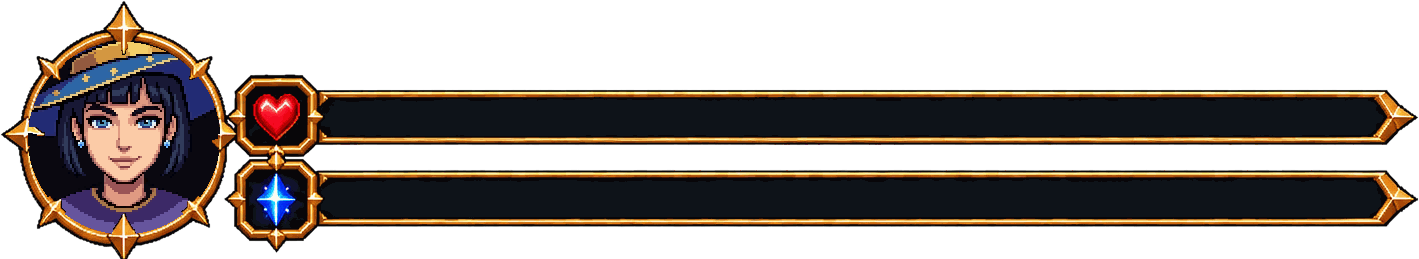
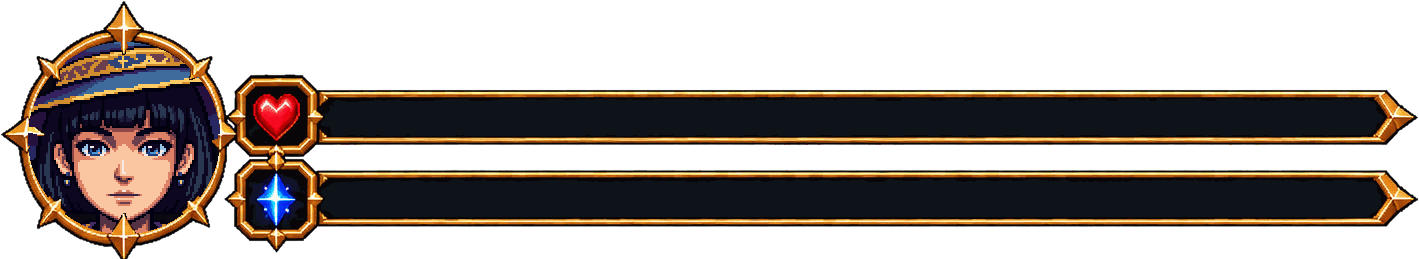
feat(arte): retrato da maga refeito no mesmo nivel dos outros herois (v355)
Claude-Session: https://claude.ai/code/session_01CFCxNXfixuMsFnbxiF9Xf2

Changed region(s): [[0.0, 0.1544, 0.155, 0.8958]]

diff --git a/sw.js b/sw.js
@@ -1,6 +1,6 @@
-const CACHE='bd1-rpg-v354';
+const CACHE='bd1-rpg-v355';
 const ASSETS=['./js/online/match.js','./relatorio.html','./css/relatorio.css','./js/pages/relatorio.js','./js/online/online.js','./saves.html','./css/saves.css','./js/pages/savesui.js','./conta.html','./css/conta.css','./js/pages/conta.js','./assets/salas/orb.png','./salas.html','./css/salas.css','./js/pages/salas.js','./js/core/gate.js','./js/online/net.js','./js/vendor/supabase.js','./assets/salas/ic_lock.png','./assets/salas/ic_unlock.png','./assets/salas/ic_people.png','./assets/salas/ic_plus.png','./assets/salas/ic_key.png','./assets/salas/ic_mage.png','./assets/salas/ic_guerreiro.png','./assets/salas/ic_tank.png','./assets/salas/ic_cleriga.png','./js/game/stage.js','./js/game/hrimgar.js','./js/game/ambient_ice.js','./assets/backgrounds/game_nohud_ice.png','./assets/backgrounds/game_clean_ice.png','./assets/bosses/hrimgar/a1.png','./assets/bosses/hrimgar/a2.png','./assets/bosses/hrimgar/a3.png','./assets/bosses/hrimgar/a4.png','./assets/bosses/hrimgar/a5.png','./assets/bosses/hrimgar/a6.png','./assets/bosses/hrimgar/fx.json','./assets/bosses/hrimgar/fx_blood.png','./assets/bosses/hrimgar/fx_flake.png','./assets/bosses/hrimgar/fx_frost.png','./assets/bosses/hrimgar/fx_pillar.png','./assets/bosses/hrimgar/fx_pillar2.png','./assets/bosses/hrimgar/fx_pillarb.png','./assets/bosses/hrimgar/fx_seal.png','./assets/bosses/hrimgar/fx_sh1.png','./assets/bosses/hrimgar/fx_sh2.png','./assets/bosses/hrimgar/fx_sh3.png','./assets/bosses/hrimgar/fx_shards.png','./assets/bosses/hrimgar/fx_shards2.png','./assets/bosses/hrimgar/fx_sl1.png','./assets/bosses/hrimgar/fx_sl2.png','./assets/bosses/hrimgar/fx_sl3.png','./assets/bosses/hrimgar/fx_sl4.png','./assets/bosses/hrimgar/fx_slline.png','./assets/bosses/hrimgar/fx_slx.png','./assets/bosses/hrimgar/meta.json','./assets/bosses/hrimgar/n1.png','./assets/bosses/hrimgar/n2.png','./assets/bosses/hrimgar/n3.png','./assets/bosses/hrimgar/n4.png','./assets/bosses/hrimgar/n5.png','./assets/bosses/hrimgar/n6.png','./assets/bosses/hrimgar/p1.png','./assets/bosses/hrimgar/p2.png','./assets/bosses/hrimgar/p3.png','./assets/bosses/hrimgar/p4.png','./assets/bosses/hrimgar/p5.png','./assets/bosses/hrimgar/p6.png','./assets/bosses/hrimgar/s1.png','./assets/bosses/hrimgar/v1.png','./assets/bosses/hrimgar/v2.png','./assets/bosses/hrimgar/v3.png','./assets/bosses/hrimgar/v4.png','./assets/bosses/hrimgar/v5.png','./assets/bosses/hrimgar/v6.png','./assets/bosses/hrimgar/w1.png','./assets/bosses/hrimgar/w2.png','./assets/bosses/hrimgar/w3.png','./assets/bosses/hrimgar/w4.png','./assets/bosses/hrimgar/w5.png','./assets/bosses/hrimgar/w6.png','./assets/bosses/hrimgar/x1.png','./assets/bosses/hrimgar/x2.png','./assets/bosses/hrimgar/x3.png','./assets/bosses/hrimgar/x4.png','./assets/bosses/hrimgar/x5.png','./assets/bosses/hrimgar/x6.png','./','./index.html','./game.html','./js/pages/lobby.js','./assets/ui/inv_panel.png','./assets/ui/shop_panel.png','./assets/ui/merchant_portrait.png','./assets/ui/shop_sign.png','./assets/ui/btn_bag.png','./assets/ui/btn_shop.png','./assets/ui/tip_parchment.png','./assets/class-select/skm_mage.png','./assets/class-select/skm_guerreiro.png','./assets/class-select/skm_tank.png','./assets/class-select/skm_cleriga.png','./assets/class-select/skm_mage_5.png','./assets/class-select/skm_guerreiro_5.png','./assets/class-select/skm_tank_5.png','./assets/class-select/skm_cleriga_5.png','./assets/skills/air.png','./assets/skills/back.png','./assets/skills/cleriga_atk.png','./assets/skills/cleriga_def.png','./assets/skills/cleriga_holy_atk.png','./assets/skills/cleriga_holy_def.png','./assets/skills/cleriga_ult.png','./assets/skills/dodge.png','./assets/skills/earth.png','./assets/skills/fire.png','./assets/skills/guerreiro_atk.png','./assets/skills/guerreiro_def.png','./assets/skills/guerreiro_heavy.png','./assets/skills/guerreiro_pass.png','./assets/skills/guerreiro_ult.png','./assets/skills/mage_elem_atk.png','./assets/skills/mage_elem_def.png','./assets/skills/mage_mana_atk.png','./assets/skills/mage_mana_def.png','./assets/skills/mage_ult.png','./assets/skills/tank_atk.png','./assets/skills/tank_def.png','./assets/skills/tank_guard.png','./assets/skills/tank_super.png','./assets/skills/tank_ult.png','./assets/skills/water.png','./js/game/menu_meta.js','./assets/ui/icon_chip_flame.png','./assets/ui/ui_cs_blue.png','./assets/ui/ui_cs_purple.png','./assets/ui/ui_cs_grey.png','./assets/ui/ui_cs_green.png','./assets/ui/ui_cs_red.png','./assets/ui/ui_cs_gold.png','./assets/ui/ui_chip_blue.png','./assets/ui/icon_chip_hourglass.png','./assets/ui/icon_chip_hourglass_red.png','./assets/ui/icon_chip_sword.png','./assets/ui/icon_chip_demon.png','./assets/ui/icon_chip_normal.png','./assets/ui/icon_chip_elem.png','./assets/ui/ui_box.png','./assets/ui/ui_chip.png','./assets/ui/ui_chip_hi.png','./assets/ui/ui_chip_red.png','./assets/class-select/tp_mage.png','./assets/class-select/tp_guerreiro.png','./assets/class-select/tp_tank.png','./assets/class-select/tp_cleriga.png','./css/lobby.css','./assets/backgrounds/select_plate.webp','./assets/ui/tip_frame.png','./assets/ui/enter_panel.png','./assets/ui/enter_btn.png','./assets/ui/enter_btn_on.png','./assets/ui/enter_btn_off.png','./assets/ui/pick_btn_on.png','./assets/ui/pick_btn_off.png','./assets/class-select/char_mage.webp','./assets/class-select/char_guerreiro.webp','./assets/class-select/char_tank.webp','./assets/class-select/char_cleriga.webp','./assets/class-select/panel_mage.webp','./assets/class-select/panel_guerreiro.webp','./assets/class-select/panel_tank.webp','./assets/class-select/panel_cleriga.webp','./css/style.css','./js/game/app.js','./js/game/anim.js','./js/game/extras.js','./js/core/pxfx.js','./js/game/boss.js','./assets/bosses/lorde/goblin.png','./js/game/ambient.js','./js/core/paper.js','./assets/fonts/openc.woff2','./assets/fonts/opencl.woff2','./assets/fonts/opend.woff2','./assets/fonts/pixelify-sans-latin-500-normal.woff2','./assets/fonts/pixelify-sans-latin-700-normal.woff2','./data/anim_manifest.json','./assets/skel/skel_face.png','./js/game/intro.js','./map.html','./css/fog.css','./js/core/fog.js','./assets/fog/top.webp','./assets/fog/bot.webp','./css/map.css','./js/pages/map.js','./js/core/quotes.js','./js/game/hud.js','./assets/map/ui_title.webp','./assets/map/ui_compass.webp','./assets/map/ui_legend.webp','./assets/map/ui_quote.webp','./js/pages/mapfx.js','./assets/map/water.png','./assets/map/base.webp','./assets/map/meta.json','./assets/map/ic_done.webp','./assets/map/ic_next.webp','./assets/map/ic_lock.webp','./assets/map/halo0_blue.webp','./assets/map/halo1_green.webp','./assets/map/gray0.webp','./assets/map/gray1.webp','./assets/map/gray2.webp','./assets/map/gray3.webp','./assets/map/gray4.webp','./assets/map/gray5.webp','./assets/intro/throne_close.webp','./assets/intro/throne_far.webp','./assets/intro/ice_close.webp','./assets/intro/ice_crack.webp','./assets/intro/ice_far.webp','./js/game/intro_ice.js','./js/game/intro_malg.js','./js/game/cine.js','./intro_malg.html','./assets/ui/mal_cap.png','./assets/intro/malg_hand.webp','./assets/intro/malg_face.webp','./assets/intro/malg_stand.webp','./assets/ui/ice_cap.png','./intro_ice.html','./assets/backgrounds/game_clean.png','./assets/backgrounds/game_nohud.png','./assets/hud/hud_mage.png','./assets/hud/hud_guerreiro.png','./assets/hud/hud_tank.png','./assets/hud/hud_cleriga.png','./assets/ui/question_panel.png','./assets/ui/icon_coin.png','./manifest.webmanifest','./assets/items/potion_hp.png','./assets/items/potion_hp_s.png','./assets/items/potion_hp_l.png','./assets/items/potion_mana_s.png','./assets/items/potion_mana_l.png','./assets/items/potion_mana.png','./assets/ui/btn_wood.png','./assets/ui/btn_dark.png','./assets/ui/btn_gold.png','./editor.html','./data/perguntas.json','./assets/items/chest_f0.png','./assets/items/chest_f1.png','./assets/items/chest_f2.png','./assets/items/chest_f3.png','./assets/items/item_amulet.png','./assets/items/item_blade.png','./assets/items/item_dice.png','./assets/items/item_elixir.png','./assets/items/item_helm.png','./assets/items/item_herb.png','./assets/items/item_hourglass.png','./assets/items/item_iron_shield.png','./assets/items/item_lens.png','./assets/items/item_lightbomb.png','./assets/items/item_luckycoin.png','./assets/items/item_phoenix.png','./assets/items/item_powder.png','./cover.html','./css/cover.css','./js/pages/cover.js','./js/core/rebuild.js','./js/core/pwtoggle.js','./espectar.html','./perguntas.html','./css/espectar.css','./js/pages/espectar.js','./js/online/spectate.js','./js/online/chat.js','./mosaico.html','./gerenciar.html','./css/gerenciar.css','./js/pages/gerenciar.js','./js/pages/mosaico.js','./js/pages/saves.js','./js/core/fs.js','./shell.html','./assets/ui/fs_icon.png','./assets/ui/fs_icon_in.png','./assets/backgrounds/cover_bg.webp','./assets/items/item_scroll.png','./assets/items/item_watch_s.png','./assets/items/item_watch_l.png','./assets/items/item_smokebomb.png','./assets/items/item_tonic.png','./js/game/vfx.js','./data/vfx_manifest.json','./assets/bosses/lorde/anim/manifest.json','./anim/mage_idle1.png','./anim/mage_idle2.png','./anim/mage_idle3.png','./anim/mage_cast_mm2.png','./anim/mage_defesa.png','./anim/mage_esquiva.png','./anim/mage_dano2.png','./anim/mage_acerto.png','./anim/mage_erro.png','./anim/mage_vitoria.png','./anim/mage_suprema_final.png','./anim/mage_morte.png','./anim/mage_reviver.png','./anim/cleriga_idle1.png','./anim/cleriga_idle2.png','./anim/cleriga_idle3.png','./anim/cleriga_holy.png','./anim/cleriga_melee.png','./anim/cleriga_defesa.png','./anim/cleriga_esquiva.png','./anim/cleriga_dano.png','./anim/cleriga_acerto.png','./anim/cleriga_erro.png','./anim/cleriga_vitoria.png','./anim/cleriga_ult.png','./anim/cleriga_morte.png','./anim/cleriga_reviver.png','./anim/tank_idle1.png','./anim/tank_idle2.png','./anim/tank_idle3.png','./anim/tank_melee.png','./anim/tank_heavy.png','./anim/tank_guard.png','./anim/tank_cover.png','./anim/tank_dodge.png','./anim/tank_hurt.png','./anim/tank_right.png','./anim/tank_wrong.png','./anim/tank_victory.png','./anim/tank_ult.png','./anim/tank_death.png','./anim/tank_revive.png','./anim/guerreiro_idle1.png','./anim/guerreiro_idle2.png','./anim/guerreiro_melee.png','./anim/guerreiro_heavy.png','./anim/guerreiro_guard.png','./anim/guerreiro_dodge.png','./anim/guerreiro_hurt.png','./anim/guerreiro_right.png','./anim/guerreiro_wrong.png','./anim/guerreiro_victory.png','./anim/guerreiro_ult.png','./anim/guerreiro_death.png','./anim/guerreiro_revive.png','./anim/guerreiro_pass.png','./assets/fx/maga-agua-conjuracao.png','./assets/fx/maga-agua-escudo.png','./assets/fx/maga-agua-impacto.png','./assets/fx/maga-agua-projetil.png','./assets/fx/maga-ar-conjuracao.png','./assets/fx/maga-ar-escudo.png','./assets/fx/maga-ar-impacto.png','./assets/fx/maga-ar-projetil.png','./assets/fx/maga-buraco-negro.png','./assets/fx/maga-esquiva-velocidade.png','./assets/fx/maga-fogo-conjuracao.png','./assets/fx/maga-fogo-escudo.png','./assets/fx/maga-fogo-impacto.png','./assets/fx/maga-fogo-projetil.png','./assets/fx/maga-mana-conjuracao.png','./assets/fx/maga-mana-escudo.png','./assets/fx/maga-mana-impacto.png','./assets/fx/maga-mana-projetil.png','./assets/fx/maga-terra-conjuracao.png','./assets/fx/maga-terra-escudo.png','./assets/fx/maga-terra-impacto.png','./assets/fx/maga-terra-projetil.png','./assets/fx/cleriga-defesa-escudo.png','./assets/fx/cleriga-sagrado-conjuracao.png','./assets/fx/cleriga-sagrado-escudo.png','./assets/fx/cleriga-sagrado-impacto.png','./assets/fx/cleriga-sagrado-raio.png','./assets/fx/fisico-impacto.png','./assets/fx/tank-martelo-impacto.png','./assets/fx/tank-onda-choque.png','./assets/fx/tank-protecao.png','./assets/fx/tank-provocacao.png','./assets/fx/tank-defesa.png','./assets/fx/guerreiro-corte-pesado.png','./assets/fx/guerreiro-corte.png','./assets/fx/guerreiro-passar.png','./assets/fx/guerreiro-berserk-frente.png','./assets/fx/guerreiro-berserk-tras.png','./assets/fx/malgorath-cacos.png','./assets/fx/malgorath-carga.png','./assets/fx/malgorath-corte.png','./assets/fx/malgorath-erupcao.png','./assets/fx/malgorath-explosao.png','./assets/fx/malgorath-fumaca.png','./assets/fx/malgorath-lanca.png','./assets/fx/malgorath-onda-choque.png','./assets/fx/malgorath-orbe.png','./assets/fx/malgorath-sigilo.png','./assets/bosses/lorde/anim/malgorath_idle.png','./assets/bosses/lorde/anim/malgorath_slashH.png','./assets/bosses/lorde/anim/malgorath_slashV.png','./assets/bosses/lorde/anim/malgorath_thrust.png','./assets/bosses/lorde/anim/malgorath_summon.png','./assets/bosses/lorde/anim/malgorath_aoe.png','./assets/bosses/lorde/anim/malgorath_enrage.png','./assets/bosses/lorde/anim/malgorath_phase2.png','./assets/bosses/lorde/anim/malgorath_prep.png','./assets/bosses/lorde/anim/malgorath_laugh.png','./assets/bosses/lorde/anim/malgorath_hurt.png','./assets/bosses/lorde/anim/malgorath_hurtLight.png','./assets/bosses/lorde/anim/malgorath_die.png','./assets/bosses/lorde/anim/malgorath_tpOut.png','./assets/bosses/lorde/anim/malgorath_tpIn.png','./assets/bosses/lorde/anim/malgorath_gagLook.png','./assets/bosses/lorde/anim/malgorath_gagDismiss.png'];
-const REV={"assets/salas/orb.png":"d1efaf7011","assets/salas/ic_lock.png":"1cc5035c6e","assets/salas/ic_unlock.png":"486731cc38","assets/salas/ic_people.png":"506120bfcd","assets/salas/ic_plus.png":"147d054e0d","assets/salas/ic_key.png":"02beda9450","assets/salas/ic_mage.png":"60ee1a09f4","assets/salas/ic_guerreiro.png":"6c899a1454","assets/salas/ic_tank.png":"9ea957d8b2","assets/salas/ic_cleriga.png":"1d6657480b","assets/backgrounds/game_nohud_ice.png":"5cb5477c12","assets/backgrounds/game_clean_ice.png":"5cb5477c12","assets/bosses/hrimgar/a1.png":"b0234f3b75","assets/bosses/hrimgar/a2.png":"63d40987f5","assets/bosses/hrimgar/a3.png":"10280dd9d4","assets/bosses/hrimgar/a4.png":"9781d8e255","assets/bosses/hrimgar/a5.png":"b5bd1af9e7","assets/bosses/hrimgar/a6.png":"80fbdc0921","assets/bosses/hrimgar/fx_blood.png":"7bfbaf12ce","assets/bosses/hrimgar/fx_flake.png":"2dc6a7d3ce","assets/bosses/hrimgar/fx_frost.png":"5d69cc54eb","assets/bosses/hrimgar/fx_pillar.png":"2111016d72","assets/bosses/hrimgar/fx_pillar2.png":"3c948df478","assets/bosses/hrimgar/fx_pillarb.png":"e753091964","assets/bosses/hrimgar/fx_seal.png":"fd3754ab69","assets/bosses/hrimgar/fx_sh1.png":"2b4d754866","assets/bosses/hrimgar/fx_sh2.png":"f2f76dec42","assets/bosses/hrimgar/fx_sh3.png":"100a2b7b2c","assets/bosses/hrimgar/fx_shards.png":"d93657d15a","assets/bosses/hrimgar/fx_shards2.png":"93f7b27c07","assets/bosses/hrimgar/fx_sl1.png":"816e41ae18","assets/bosses/hrimgar/fx_sl2.png":"8884db6345","assets/bosses/hrimgar/fx_sl3.png":"335d125092","assets/bosses/hrimgar/fx_sl4.png":"d2f7904826","assets/bosses/hrimgar/fx_slline.png":"3054785212","assets/bosses/hrimgar/fx_slx.png":"aace504f71","assets/bosses/hrimgar/n1.png":"7202ed24a6","assets/bosses/hrimgar/n2.png":"6dec7b74d2","assets/bosses/hrimgar/n3.png":"dd00445736","assets/bosses/hrimgar/n4.png":"ba0e290d37","assets/bosses/hrimgar/n5.png":"18757d4289","assets/bosses/hrimgar/n6.png":"61b383acff","assets/bosses/hrimgar/p1.png":"023057d663","assets/bosses/hrimgar/p2.png":"cde6a77cb3","assets/bosses/hrimgar/p3.png":"72d11dfc64","assets/bosses/hrimgar/p4.png":"e5801c650a","assets/bosses/hrimgar/p5.png":"d54f58a7a2","assets/bosses/hrimgar/p6.png":"d7313346e0","assets/bosses/hrimgar/s1.png":"77e88203c6","assets/bosses/hrimgar/v1.png":"d3d9dba592","assets/bosses/hrimgar/v2.png":"a155553b23","assets/bosses/hrimgar/v3.png":"b3ff557c1e","assets/bosses/hrimgar/v4.png":"b98eb338a0","assets/bosses/hrimgar/v5.png":"04bb27c1ea","assets/bosses/hrimgar/v6.png":"0bb5a7bb3c","assets/bosses/hrimgar/w1.png":"2099500d0e","assets/bosses/hrimgar/w2.png":"754bc5c981","assets/bosses/hrimgar/w3.png":"b037b9bf31","assets/bosses/hrimgar/w4.png":"623807d56e","assets/bosses/hrimgar/w5.png":"2862ac1f77","assets/bosses/hrimgar/w6.png":"b1e25c6860","assets/bosses/hrimgar/x1.png":"44a6e6f51d","assets/bosses/hrimgar/x2.png":"e9dac7d4ea","assets/bosses/hrimgar/x3.png":"ae4256e35a","assets/bosses/hrimgar/x4.png":"551bacda5a","assets/bosses/hrimgar/x5.png":"1d817fd7af","assets/bosses/hrimgar/x6.png":"f802a8f989","assets/ui/inv_panel.png":"aa48b37748","assets/ui/shop_panel.png":"27c0735cfc","assets/ui/merchant_portrait.png":"7defb297ab","assets/ui/shop_sign.png":"689b4749e5","assets/ui/btn_bag.png":"51f5ac84a8","assets/ui/btn_shop.png":"04c2d188e0","assets/ui/tip_parchment.png":"32690c54ff","assets/class-select/skm_mage.png":"e01af5944d","assets/class-select/skm_guerreiro.png":"b6c453aba9","assets/class-select/skm_tank.png":"79900a343f","assets/class-select/skm_cleriga.png":"4d3e7d54a0","assets/class-select/skm_mage_5.png":"7c401867ce","assets/class-select/skm_guerreiro_5.png":"b8a776d29d","assets/class-select/skm_tank_5.png":"832c15f618","assets/class-select/skm_cleriga_5.png":"2442c0320f","assets/skills/air.png":"00f23ced94","assets/skills/back.png":"c19f110227","assets/skills/cleriga_atk.png":"6aef9c395c","assets/skills/cleriga_def.png":"9bcc3f5cae","assets/skills/cleriga_holy_atk.png":"2d3470cb85","assets/skills/cleriga_holy_def.png":"9f2738b8d5","assets/skills/cleriga_ult.png":"947aba1669","assets/skills/dodge.png":"ae6ee5c5fa","assets/skills/earth.png":"246f1615b3","assets/skills/fire.png":"104f862421","assets/skills/guerreiro_atk.png":"0e02ada494","assets/skills/guerreiro_def.png":"777863145e","assets/skills/guerreiro_heavy.png":"0505a0f6b1","assets/skills/guerreiro_pass.png":"a3bcc4250a","assets/skills/guerreiro_ult.png":"fb7e4db1b9","assets/skills/mage_elem_atk.png":"0e61c91948","assets/skills/mage_elem_def.png":"9f83151920","assets/skills/mage_mana_atk.png":"e38b33163d","assets/skills/mage_mana_def.png":"9fb60263a8","assets/skills/mage_ult.png":"91487212f5","assets/skills/tank_atk.png":"5e7cb605eb","assets/skills/tank_def.png":"4393303d5b","assets/skills/tank_guard.png":"f3a2535dd9","assets/skills/tank_super.png":"1a5d77eec3","assets/skills/tank_ult.png":"a12489b24b","assets/skills/water.png":"c3f2481fe3","assets/ui/icon_chip_flame.png":"8cc594b5eb","assets/ui/ui_cs_blue.png":"532e4ca80e","assets/ui/ui_cs_purple.png":"9300ab2e19","assets/ui/ui_cs_grey.png":"520b50c18b","assets/ui/ui_cs_green.png":"07a52ea496","assets/ui/ui_cs_red.png":"0c1a718a8e","assets/ui/ui_cs_gold.png":"b1dac451c0","assets/ui/ui_chip_blue.png":"801a791e2a","assets/ui/icon_chip_hourglass.png":"b52c6a9a5c","assets/ui/icon_chip_hourglass_red.png":"b212d04904","assets/ui/icon_chip_sword.png":"25daead56e","assets/ui/icon_chip_demon.png":"6c24e728ea","assets/ui/icon_chip_normal.png":"d9d3978bfa","assets/ui/icon_chip_elem.png":"f934dc60bd","assets/ui/ui_box.png":"6e1f21f399","assets/ui/ui_chip.png":"0b57493096","assets/ui/ui_chip_hi.png":"3e2aa78427","assets/ui/ui_chip_red.png":"1ec4342d38","assets/class-select/tp_mage.png":"7bcf1ad2ba","assets/class-select/tp_guerreiro.png":"f30375b57e","assets/class-select/tp_tank.png":"fc7d00b085","assets/class-select/tp_cleriga.png":"a338367478","assets/backgrounds/select_plate.webp":"44465957fd","assets/ui/tip_frame.png":"c3369c78ff","assets/ui/enter_panel.png":"9775f0cc6d","assets/ui/enter_btn.png":"c4bdacfe4f","assets/ui/enter_btn_on.png":"489f938cb9","assets/ui/enter_btn_off.png":"88be22d64b","assets/ui/pick_btn_on.png":"ce8fff7eff","assets/ui/pick_btn_off.png":"8fc52bcab8","assets/class-select/char_mage.webp":"ae7addf5fc","assets/class-select/char_guerreiro.webp":"a2a98c558a","assets/class-select/char_tank.webp":"31f3c7fa56","assets/class-select/char_cleriga.webp":"545e5ca007","assets/class-select/panel_mage.webp":"b464a78046","assets/class-select/panel_guerreiro.webp":"3e2d40dec4","assets/class-select/panel_tank.webp":"14d775fb7a","assets/class-select/panel_cleriga.webp":"a642a181b8","assets/bosses/lorde/goblin.png":"5c82cbf4e2","assets/fonts/openc.woff2":"c936defdb6","assets/fonts/opencl.woff2":"3690b8193a","assets/fonts/opend.woff2":"34c0e0dc52","assets/fonts/pixelify-sans-latin-500-normal.woff2":"8573b1316f","assets/fonts/pixelify-sans-latin-700-normal.woff2":"34b68fb9c4","assets/skel/skel_face.png":"7cbbcdd549","assets/fog/top.webp":"76a4b0be7b","assets/fog/bot.webp":"8deec3f992","assets/map/ui_title.webp":"eab8cf29e2","assets/map/ui_compass.webp":"23c2e81a8f","assets/map/ui_legend.webp":"20ab66fefb","assets/map/ui_quote.webp":"f756681563","assets/map/water.png":"627679655f","assets/map/base.webp":"a86416c977","assets/map/ic_done.webp":"8b3e9e715f","assets/map/ic_next.webp":"f5f75fdac7","assets/map/ic_lock.webp":"785458918f","assets/map/halo0_blue.webp":"92326af589","assets/map/halo1_green.webp":"e58554abc4","assets/map/gray0.webp":"065108e8aa","assets/map/gray1.webp":"c2921ebd6d","assets/map/gray2.webp":"fb7f4595ad","assets/map/gray3.webp":"4bb3d354c0","assets/map/gray4.webp":"be9651d346","assets/map/gray5.webp":"f294079863","assets/intro/throne_close.webp":"8faab12112","assets/intro/throne_far.webp":"a1fb7f9369","assets/intro/ice_close.webp":"9dd5e0d9c6","assets/intro/ice_crack.webp":"d174e862df","assets/intro/ice_far.webp":"aaee89aebc","assets/ui/mal_cap.png":"a99b2df60f","assets/intro/malg_hand.webp":"8bc0438819","assets/intro/malg_face.webp":"9ae460e280","assets/intro/malg_stand.webp":"7aa4370c29","assets/ui/ice_cap.png":"6ac18bdbb9","assets/backgrounds/game_clean.png":"b49f7c3ffb","assets/backgrounds/game_nohud.png":"0162b9a68b","assets/hud/hud_mage.png":"031c2d9133","assets/hud/hud_guerreiro.png":"19565bd165","assets/hud/hud_tank.png":"fb5ad58a5f","assets/hud/hud_cleriga.png":"c54aef1eb8","assets/ui/question_panel.png":"584a142acb","assets/ui/icon_coin.png":"b701da35c3","assets/items/potion_hp.png":"57f9e11910","assets/items/potion_hp_s.png":"bd483b20a8","assets/items/potion_hp_l.png":"3e2666035c","assets/items/potion_mana_s.png":"87b911d049","assets/items/potion_mana_l.png":"02b9f308c4","assets/items/potion_mana.png":"7822c4c93b","assets/ui/btn_wood.png":"779e92afad","assets/ui/btn_dark.png":"d52ebc15b9","assets/ui/btn_gold.png":"42c67655e6","assets/items/chest_f0.png":"e828ab2360","assets/items/chest_f1.png":"b8be9e5206","assets/items/chest_f2.png":"d1ea9fc16a","assets/items/chest_f3.png":"c84c7faec1","assets/items/item_amulet.png":"3957ec1d85","assets/items/item_blade.png":"4118e8221d","assets/items/item_dice.png":"00da4cd17a","assets/items/item_elixir.png":"741a8449cf","assets/items/item_helm.png":"22edf2a538","assets/items/item_herb.png":"1920914dd5","assets/items/item_hourglass.png":"070ef1d554","assets/items/item_iron_shield.png":"eb8c0dc70f","assets/items/item_lens.png":"9c4fd8d663","assets/items/item_lightbomb.png":"6a60691870","assets/items/item_luckycoin.png":"0ca9162b8a","assets/items/item_phoenix.png":"d17ec03554","assets/items/item_powder.png":"98e90083df","assets/ui/fs_icon.png":"929ca5cf37","assets/ui/fs_icon_in.png":"30ec70cc0d","assets/backgrounds/cover_bg.webp":"965bb56753","assets/items/item_scroll.png":"5421867816","assets/items/item_watch_s.png":"95721b39e4","assets/items/item_watch_l.png":"ab6dc96315","assets/items/item_smokebomb.png":"4fe16da5b7","assets/items/item_tonic.png":"2945f0b6c5","anim/mage_idle1.png":"ec03634787","anim/mage_idle2.png":"47ddbbde14","anim/mage_idle3.png":"e03ae5a01c","anim/mage_cast_mm2.png":"b9cb0d58ba","anim/mage_defesa.png":"07900280a9","anim/mage_esquiva.png":"e9d14d8ef8","anim/mage_dano2.png":"968a264711","anim/mage_acerto.png":"f42874f1ee","anim/mage_erro.png":"7d26c8d435","anim/mage_vitoria.png":"005c439974","anim/mage_suprema_final.png":"f569182c95","anim/mage_morte.png":"9c93243067","anim/mage_reviver.png":"97d41c971f","anim/cleriga_idle1.png":"17cbd6c4b8","anim/cleriga_idle2.png":"aa695faffd","anim/cleriga_idle3.png":"03038836c6","anim/cleriga_holy.png":"7c2be60ba2","anim/cleriga_melee.png":"64911f00ed","anim/cleriga_defesa.png":"a51383a37f","anim/cleriga_esquiva.png":"16e3077fc7","anim/cleriga_dano.png":"86006eed18","anim/cleriga_acerto.png":"8ec02ef48c","anim/cleriga_erro.png":"f9ee9f433b","anim/cleriga_vitoria.png":"fb3b89ed43","anim/cleriga_ult.png":"56fe91d108","anim/cleriga_morte.png":"0cb15e145e","anim/cleriga_reviver.png":"a08fcc3f8c","anim/tank_idle1.png":"af345f0c4d","anim/tank_idle2.png":"a8d879ecf1","anim/tank_idle3.png":"2c3073f7cf","anim/tank_melee.png":"16923e82a0","anim/tank_heavy.png":"967f969d2f","anim/tank_guard.png":"1450cf7d53","anim/tank_cover.png":"804e4c8cf3","anim/tank_dodge.png":"4ee3ed8f7f","anim/tank_hurt.png":"dec5c16e40","anim/tank_right.png":"5bce34792f","anim/tank_wrong.png":"8a976de905","anim/tank_victory.png":"3337af21e8","anim/tank_ult.png":"8ec162ef96","anim/tank_death.png":"948ed8ffe1","anim/tank_revive.png":"db3b0cd9f1","anim/guerreiro_idle1.png":"500ba960a3","anim/guerreiro_idle2.png":"f3872a79f6","anim/guerreiro_melee.png":"2fa6ea1b13","anim/guerreiro_heavy.png":"2aa27be08c","anim/guerreiro_guard.png":"44c9cf5624","anim/guerreiro_dodge.png":"9912a7eb1f","anim/guerreiro_hurt.png":"2a91018cab","anim/guerreiro_right.png":"a9a53d5426","anim/guerreiro_wrong.png":"f883ce98ba","anim/guerreiro_victory.png":"f270c211e2","anim/guerreiro_ult.png":"28b19e5133","anim/guerreiro_death.png":"811c000403","anim/guerreiro_revive.png":"512922c410","anim/guerreiro_pass.png":"623b3a7237","assets/fx/maga-agua-conjuracao.png":"c68e748f5b","assets/fx/maga-agua-escudo.png":"bbd0e5a22c","assets/fx/maga-agua-impacto.png":"599f7238e9","assets/fx/maga-agua-projetil.png":"94b5a2457a","assets/fx/maga-ar-conjuracao.png":"4d30472966","assets/fx/maga-ar-escudo.png":"59f7079b5f","assets/fx/maga-ar-impacto.png":"2eecef0796","assets/fx/maga-ar-projetil.png":"9beb87d5f9","assets/fx/maga-buraco-negro.png":"96c6eb5632","assets/fx/maga-esquiva-velocidade.png":"b945b4812d","assets/fx/maga-fogo-conjuracao.png":"d781161a83","assets/fx/maga-fogo-escudo.png":"8ee055e87f","assets/fx/maga-fogo-impacto.png":"ec3e942c39","assets/fx/maga-fogo-projetil.png":"e48ac5e61e","assets/fx/maga-mana-conjuracao.png":"3065a48be3","assets/fx/maga-mana-escudo.png":"3f5a007cde","assets/fx/maga-mana-impacto.png":"f317283e7d","assets/fx/maga-mana-projetil.png":"b2010c13b7","assets/fx/maga-terra-conjuracao.png":"314593ee9f","assets/fx/maga-terra-escudo.png":"e94b73c01d","assets/fx/maga-terra-impacto.png":"71883bd157","assets/fx/maga-terra-projetil.png":"ec73bfe198","assets/fx/cleriga-defesa-escudo.png":"c132a85978","assets/fx/cleriga-sagrado-conjuracao.png":"9e35cca722","assets/fx/cleriga-sagrado-escudo.png":"5391e067f6","assets/fx/cleriga-sagrado-impacto.png":"cf4e4ef6d4","assets/fx/cleriga-sagrado-raio.png":"6b0e74a1f2","assets/fx/fisico-impacto.png":"0cdec248bd","assets/fx/tank-martelo-impacto.png":"a7df8428c8","assets/fx/tank-onda-choque.png":"1ea0097e52","assets/fx/tank-protecao.png":"610ed49f4c","assets/fx/tank-provocacao.png":"3a6179e154","assets/fx/tank-defesa.png":"688c307083","assets/fx/guerreiro-corte-pesado.png":"5e295094af","assets/fx/guerreiro-corte.png":"c92b7d7927","assets/fx/guerreiro-passar.png":"c0d0464a4e","assets/fx/guerreiro-berserk-frente.png":"4b5c28290a","assets/fx/guerreiro-berserk-tras.png":"2e3d983e27","assets/fx/malgorath-cacos.png":"d8cc3a614d","assets/fx/malgorath-carga.png":"8b4557be5a","assets/fx/malgorath-corte.png":"4ca05dec6e","assets/fx/malgorath-erupcao.png":"a6ef5ef566","assets/fx/malgorath-explosao.png":"c231e99f1e","assets/fx/malgorath-fumaca.png":"9ea52cc4c6","assets/fx/malgorath-lanca.png":"e2ed12f47d","assets/fx/malgorath-onda-choque.png":"6d0b18b271","assets/fx/malgorath-orbe.png":"4a7774d762","assets/fx/malgorath-sigilo.png":"31dd61b29f","assets/bosses/lorde/anim/malgorath_idle.png":"76aadefa05","assets/bosses/lorde/anim/malgorath_slashH.png":"8dcdebac05","assets/bosses/lorde/anim/malgorath_slashV.png":"ecb4d164fa","assets/bosses/lorde/anim/malgorath_thrust.png":"af866b6924","assets/bosses/lorde/anim/malgorath_summon.png":"d92c2cced1","assets/bosses/lorde/anim/malgorath_aoe.png":"78c80110da","assets/bosses/lorde/anim/malgorath_enrage.png":"a6009ec11c","assets/bosses/lorde/anim/malgorath_phase2.png":"eaab28b5fd","assets/bosses/lorde/anim/malgorath_prep.png":"bcd07a9779","assets/bosses/lorde/anim/malgorath_laugh.png":"f31aed0d6a","assets/bosses/lorde/anim/malgorath_hurt.png":"00e6feb209","assets/bosses/lorde/anim/malgorath_hurtLight.png":"0db1e94f73","assets/bosses/lorde/anim/malgorath_die.png":"5eda7b2c21","assets/bosses/lorde/anim/malgorath_tpOut.png":"646a06ef6f","assets/bosses/lorde/anim/malgorath_tpIn.png":"8b09725965","assets/bosses/lorde/anim/malgorath_gagLook.png":"c63bfc18f2","assets/bosses/lorde/anim/malgorath_gagDismiss.png":"f19ea61583"};
+const REV={"assets/salas/orb.png":"d1efaf7011","assets/salas/ic_lock.png":"1cc5035c6e","assets/salas/ic_unlock.png":"486731cc38","assets/salas/ic_people.png":"506120bfcd","assets/salas/ic_plus.png":"147d054e0d","assets/salas/ic_key.png":"02beda9450","assets/salas/ic_mage.png":"60ee1a09f4","assets/salas/ic_guerreiro.png":"6c899a1454","assets/salas/ic_tank.png":"9ea957d8b2","assets/salas/ic_cleriga.png":"1d6657480b","assets/backgrounds/game_nohud_ice.png":"5cb5477c12","assets/backgrounds/game_clean_ice.png":"5cb5477c12","assets/bosses/hrimgar/a1.png":"b0234f3b75","assets/bosses/hrimgar/a2.png":"63d40987f5","assets/bosses/hrimgar/a3.png":"10280dd9d4","assets/bosses/hrimgar/a4.png":"9781d8e255","assets/bosses/hrimgar/a5.png":"b5bd1af9e7","assets/bosses/hrimgar/a6.png":"80fbdc0921","assets/bosses/hrimgar/fx_blood.png":"7bfbaf12ce","assets/bosses/hrimgar/fx_flake.png":"2dc6a7d3ce","assets/bosses/hrimgar/fx_frost.png":"5d69cc54eb","assets/bosses/hrimgar/fx_pillar.png":"2111016d72","assets/bosses/hrimgar/fx_pillar2.png":"3c948df478","assets/bosses/hrimgar/fx_pillarb.png":"e753091964","assets/bosses/hrimgar/fx_seal.png":"fd3754ab69","assets/bosses/hrimgar/fx_sh1.png":"2b4d754866","assets/bosses/hrimgar/fx_sh2.png":"f2f76dec42","assets/bosses/hrimgar/fx_sh3.png":"100a2b7b2c","assets/bosses/hrimgar/fx_shards.png":"d93657d15a","assets/bosses/hrimgar/fx_shards2.png":"93f7b27c07","assets/bosses/hrimgar/fx_sl1.png":"816e41ae18","assets/bosses/hrimgar/fx_sl2.png":"8884db6345","assets/bosses/hrimgar/fx_sl3.png":"335d125092","assets/bosses/hrimgar/fx_sl4.png":"d2f7904826","assets/bosses/hrimgar/fx_slline.png":"3054785212","assets/bosses/hrimgar/fx_slx.png":"aace504f71","assets/bosses/hrimgar/n1.png":"7202ed24a6","assets/bosses/hrimgar/n2.png":"6dec7b74d2","assets/bosses/hrimgar/n3.png":"dd00445736","assets/bosses/hrimgar/n4.png":"ba0e290d37","assets/bosses/hrimgar/n5.png":"18757d4289","assets/bosses/hrimgar/n6.png":"61b383acff","assets/bosses/hrimgar/p1.png":"023057d663","assets/bosses/hrimgar/p2.png":"cde6a77cb3","assets/bosses/hrimgar/p3.png":"72d11dfc64","assets/bosses/hrimgar/p4.png":"e5801c650a","assets/bosses/hrimgar/p5.png":"d54f58a7a2","assets/bosses/hrimgar/p6.png":"d7313346e0","assets/bosses/hrimgar/s1.png":"77e88203c6","assets/bosses/hrimgar/v1.png":"d3d9dba592","assets/bosses/hrimgar/v2.png":"a155553b23","assets/bosses/hrimgar/v3.png":"b3ff557c1e","assets/bosses/hrimgar/v4.png":"b98eb338a0","assets/bosses/hrimgar/v5.png":"04bb27c1ea","assets/bosses/hrimgar/v6.png":"0bb5a7bb3c","assets/bosses/hrimgar/w1.png":"2099500d0e","assets/bosses/hrimgar/w2.png":"754bc5c981","assets/bosses/hrimgar/w3.png":"b037b9bf31","assets/bosses/hrimgar/w4.png":"623807d56e","assets/bosses/hrimgar/w5.png":"2862ac1f77","assets/bosses/hrimgar/w6.png":"b1e25c6860","assets/bosses/hrimgar/x1.png":"44a6e6f51d","assets/bosses/hrimgar/x2.png":"e9dac7d4ea","assets/bosses/hrimgar/x3.png":"ae4256e35a","assets/bosses/hrimgar/x4.png":"551bacda5a","assets/bosses/hrimgar/x5.png":"1d817fd7af","assets/bosses/hrimgar/x6.png":"f802a8f989","assets/ui/inv_panel.png":"aa48b37748","assets/ui/shop_panel.png":"27c0735cfc","assets/ui/merchant_portrait.png":"7defb297ab","assets/ui/shop_sign.png":"689b4749e5","assets/ui/btn_bag.png":"51f5ac84a8","assets/ui/btn_shop.png":"04c2d188e0","assets/ui/tip_parchment.png":"32690c54ff","assets/class-select/skm_mage.png":"e01af5944d","assets/class-select/skm_guerreiro.png":"b6c453aba9","assets/class-select/skm_tank.png":"79900a343f","assets/class-select/skm_cleriga.png":"4d3e7d54a0","assets/class-select/skm_mage_5.png":"7c401867ce","assets/class-select/skm_guerreiro_5.png":"b8a776d29d","assets/class-select/skm_tank_5.png":"832c15f618","assets/class-select/skm_cleriga_5.png":"2442c0320f","assets/skills/air.png":"00f23ced94","assets/skills/back.png":"c19f110227","assets/skills/cleriga_atk.png":"6aef9c395c","assets/skills/cleriga_def.png":"9bcc3f5cae","assets/skills/cleriga_holy_atk.png":"2d3470cb85","assets/skills/cleriga_holy_def.png":"9f2738b8d5","assets/skills/cleriga_ult.png":"947aba1669","assets/skills/dodge.png":"ae6ee5c5fa","assets/skills/earth.png":"246f1615b3","assets/skills/fire.png":"104f862421","assets/skills/guerreiro_atk.png":"0e02ada494","assets/skills/guerreiro_def.png":"777863145e","assets/skills/guerreiro_heavy.png":"0505a0f6b1","assets/skills/guerreiro_pass.png":"a3bcc4250a","assets/skills/guerreiro_ult.png":"fb7e4db1b9","assets/skills/mage_elem_atk.png":"0e61c91948","assets/skills/mage_elem_def.png":"9f83151920","assets/skills/mage_mana_atk.png":"e38b33163d","assets/skills/mage_mana_def.png":"9fb60263a8","assets/skills/mage_ult.png":"91487212f5","assets/skills/tank_atk.png":"5e7cb605eb","assets/skills/tank_def.png":"4393303d5b","assets/skills/tank_guard.png":"f3a2535dd9","assets/skills/tank_super.png":"1a5d77eec3","assets/skills/tank_ult.png":"a12489b24b","assets/skills/water.png":"c3f2481fe3","assets/ui/icon_chip_flame.png":"8cc594b5eb","assets/ui/ui_cs_blue.png":"532e4ca80e","assets/ui/ui_cs_purple.png":"9300ab2e19","assets/ui/ui_cs_grey.png":"520b50c18b","assets/ui/ui_cs_green.png":"07a52ea496","assets/ui/ui_cs_red.png":"0c1a718a8e","assets/ui/ui_cs_gold.png":"b1dac451c0","assets/ui/ui_chip_blue.png":"801a791e2a","assets/ui/icon_chip_hourglass.png":"b52c6a9a5c","assets/ui/icon_chip_hourglass_red.png":"b212d04904","assets/ui/icon_chip_sword.png":"25daead56e","assets/ui/icon_chip_demon.png":"6c24e728ea","assets/ui/icon_chip_normal.png":"d9d3978bfa","assets/ui/icon_chip_elem.png":"f934dc60bd","assets/ui/ui_box.png":"6e1f21f399","assets/ui/ui_chip.png":"0b57493096","assets/ui/ui_chip_hi.png":"3e2aa78427","assets/ui/ui_chip_red.png":"1ec4342d38","assets/class-select/tp_mage.png":"d3bb6ef9c1","assets/class-select/tp_guerreiro.png":"f30375b57e","assets/class-select/tp_tank.png":"fc7d00b085","assets/class-select/tp_cleriga.png":"a338367478","assets/backgrounds/select_plate.webp":"44465957fd","assets/ui/tip_frame.png":"c3369c78ff","assets/ui/enter_panel.png":"9775f0cc6d","assets/ui/enter_btn.png":"c4bdacfe4f","assets/ui/enter_btn_on.png":"489f938cb9","assets/ui/enter_btn_off.png":"88be22d64b","assets/ui/pick_btn_on.png":"ce8fff7eff","assets/ui/pick_btn_off.png":"8fc52bcab8","assets/class-select/char_mage.webp":"ae7addf5fc","assets/class-select/char_guerreiro.webp":"a2a98c558a","assets/class-select/char_tank.webp":"31f3c7fa56","assets/class-select/char_cleriga.webp":"545e5ca007","assets/class-select/panel_mage.webp":"b464a78046","assets/class-select/panel_guerreiro.webp":"3e2d40dec4","assets/class-select/panel_tank.webp":"14d775fb7a","assets/class-select/panel_cleriga.webp":"a642a181b8","assets/bosses/lorde/goblin.png":"5c82cbf4e2","assets/fonts/openc.woff2":"c936defdb6","assets/fonts/opencl.woff2":"3690b8193a","assets/fonts/opend.woff2":"34c0e0dc52","assets/fonts/pixelify-sans-latin-500-normal.woff2":"8573b1316f","assets/fonts/pixelify-sans-latin-700-normal.woff2":"34b68fb9c4","assets/skel/skel_face.png":"7cbbcdd549","assets/fog/top.webp":"76a4b0be7b","assets/fog/bot.webp":"8deec3f992","assets/map/ui_title.webp":"eab8cf29e2","assets/map/ui_compass.webp":"23c2e81a8f","assets/map/ui_legend.webp":"20ab66fefb","assets/map/ui_quote.webp":"f756681563","assets/map/water.png":"627679655f","assets/map/base.webp":"a86416c977","assets/map/ic_done.webp":"8b3e9e715f","assets/map/ic_next.webp":"f5f75fdac7","assets/map/ic_lock.webp":"785458918f","assets/map/halo0_blue.webp":"92326af589","assets/map/halo1_green.webp":"e58554abc4","assets/map/gray0.webp":"065108e8aa","assets/map/gray1.webp":"c2921ebd6d","assets/map/gray2.webp":"fb7f4595ad","assets/map/gray3.webp":"4bb3d354c0","assets/map/gray4.webp":"be9651d346","assets/map/gray5.webp":"f294079863","assets/intro/throne_close.webp":"8faab12112","assets/intro/throne_far.webp":"a1fb7f9369","assets/intro/ice_close.webp":"9dd5e0d9c6","assets/intro/ice_crack.webp":"d174e862df","assets/intro/ice_far.webp":"aaee89aebc","assets/ui/mal_cap.png":"a99b2df60f","assets/intro/malg_hand.webp":"8bc0438819","assets/intro/malg_face.webp":"9ae460e280","assets/intro/malg_stand.webp":"7aa4370c29","assets/ui/ice_cap.png":"6ac18bdbb9","assets/backgrounds/game_clean.png":"b49f7c3ffb","assets/backgrounds/game_nohud.png":"0162b9a68b","assets/hud/hud_mage.png":"27c373a100","assets/hud/hud_guerreiro.png":"19565bd165","assets/hud/hud_tank.png":"fb5ad58a5f","assets/hud/hud_cleriga.png":"c54aef1eb8","assets/ui/question_panel.png":"584a142acb","assets/ui/icon_coin.png":"b701da35c3","assets/items/potion_hp.png":"57f9e11910","assets/items/potion_hp_s.png":"bd483b20a8","assets/items/potion_hp_l.png":"3e2666035c","assets/items/potion_mana_s.png":"87b911d049","assets/items/potion_mana_l.png":"02b9f308c4","assets/items/potion_mana.png":"7822c4c93b","assets/ui/btn_wood.png":"779e92afad","assets/ui/btn_dark.png":"d52ebc15b9","assets/ui/btn_gold.png":"42c67655e6","assets/items/chest_f0.png":"e828ab2360","assets/items/chest_f1.png":"b8be9e5206","assets/items/chest_f2.png":"d1ea9fc16a","assets/items/chest_f3.png":"c84c7faec1","assets/items/item_amulet.png":"3957ec1d85","assets/items/item_blade.png":"4118e8221d","assets/items/item_dice.png":"00da4cd17a","assets/items/item_elixir.png":"741a8449cf","assets/items/item_helm.png":"22edf2a538","assets/items/item_herb.png":"1920914dd5","assets/items/item_hourglass.png":"070ef1d554","assets/items/item_iron_shield.png":"eb8c0dc70f","assets/items/item_lens.png":"9c4fd8d663","assets/items/item_lightbomb.png":"6a60691870","assets/items/item_luckycoin.png":"0ca9162b8a","assets/items/item_phoenix.png":"d17ec03554","assets/items/item_powder.png":"98e90083df","assets/ui/fs_icon.png":"929ca5cf37","assets/ui/fs_icon_in.png":"30ec70cc0d","assets/backgrounds/cover_bg.webp":"965bb56753","assets/items/item_scroll.png":"5421867816","assets/items/item_watch_s.png":"95721b39e4","assets/items/item_watch_l.png":"ab6dc96315","assets/items/item_smokebomb.png":"4fe16da5b7","assets/items/item_tonic.png":"2945f0b6c5","anim/mage_idle1.png":"ec03634787","anim/mage_idle2.png":"47ddbbde14","anim/mage_idle3.png":"e03ae5a01c","anim/mage_cast_mm2.png":"b9cb0d58ba","anim/mage_defesa.png":"07900280a9","anim/mage_esquiva.png":"e9d14d8ef8","anim/mage_dano2.png":"968a264711","anim/mage_acerto.png":"f42874f1ee","anim/mage_erro.png":"7d26c8d435","anim/mage_vitoria.png":"005c439974","anim/mage_suprema_final.png":"f569182c95","anim/mage_morte.png":"9c93243067","anim/mage_reviver.png":"97d41c971f","anim/cleriga_idle1.png":"17cbd6c4b8","anim/cleriga_idle2.png":"aa695faffd","anim/cleriga_idle3.png":"03038836c6","anim/cleriga_holy.png":"7c2be60ba2","anim/cleriga_melee.png":"64911f00ed","anim/cleriga_defesa.png":"a51383a37f","anim/cleriga_esquiva.png":"16e3077fc7","anim/cleriga_dano.png":"86006eed18","anim/cleriga_acerto.png":"8ec02ef48c","anim/cleriga_erro.png":"f9ee9f433b","anim/cleriga_vitoria.png":"fb3b89ed43","anim/cleriga_ult.png":"56fe91d108","anim/cleriga_morte.png":"0cb15e145e","anim/cleriga_reviver.png":"a08fcc3f8c","anim/tank_idle1.png":"af345f0c4d","anim/tank_idle2.png":"a8d879ecf1","anim/tank_idle3.png":"2c3073f7cf","anim/tank_melee.png":"16923e82a0","anim/tank_heavy.png":"967f969d2f","anim/tank_guard.png":"1450cf7d53","anim/tank_cover.png":"804e4c8cf3","anim/tank_dodge.png":"4ee3ed8f7f","anim/tank_hurt.png":"dec5c16e40","anim/tank_right.png":"5bce34792f","anim/tank_wrong.png":"8a976de905","anim/tank_victory.png":"3337af21e8","anim/tank_ult.png":"8ec162ef96","anim/tank_death.png":"948ed8ffe1","anim/tank_revive.png":"db3b0cd9f1","anim/guerreiro_idle1.png":"500ba960a3","anim/guerreiro_idle2.png":"f3872a79f6","anim/guerreiro_melee.png":"2fa6ea1b13","anim/guerreiro_heavy.png":"2aa27be08c","anim/guerreiro_guard.png":"44c9cf5624","anim/guerreiro_dodge.png":"9912a7eb1f","anim/guerreiro_hurt.png":"2a91018cab","anim/guerreiro_right.png":"a9a53d5426","anim/guerreiro_wrong.png":"f883ce98ba","anim/guerreiro_victory.png":"f270c211e2","anim/guerreiro_ult.png":"28b19e5133","anim/guerreiro_death.png":"811c000403","anim/guerreiro_revive.png":"512922c410","anim/guerreiro_pass.png":"623b3a7237","assets/fx/maga-agua-conjuracao.png":"c68e748f5b","assets/fx/maga-agua-escudo.png":"bbd0e5a22c","assets/fx/maga-agua-impacto.png":"599f7238e9","assets/fx/maga-agua-projetil.png":"94b5a2457a","assets/fx/maga-ar-conjuracao.png":"4d30472966","assets/fx/maga-ar-escudo.png":"59f7079b5f","assets/fx/maga-ar-impacto.png":"2eecef0796","assets/fx/maga-ar-projetil.png":"9beb87d5f9","assets/fx/maga-buraco-negro.png":"96c6eb5632","assets/fx/maga-esquiva-velocidade.png":"b945b4812d","assets/fx/maga-fogo-conjuracao.png":"d781161a83","assets/fx/maga-fogo-escudo.png":"8ee055e87f","assets/fx/maga-fogo-impacto.png":"ec3e942c39","assets/fx/maga-fogo-projetil.png":"e48ac5e61e","assets/fx/maga-mana-conjuracao.png":"3065a48be3","assets/fx/maga-mana-escudo.png":"3f5a007cde","assets/fx/maga-mana-impacto.png":"f317283e7d","assets/fx/maga-mana-projetil.png":"b2010c13b7","assets/fx/maga-terra-conjuracao.png":"314593ee9f","assets/fx/maga-terra-escudo.png":"e94b73c01d","assets/fx/maga-terra-impacto.png":"71883bd157","assets/fx/maga-terra-projetil.png":"ec73bfe198","assets/fx/cleriga-defesa-escudo.png":"c132a85978","assets/fx/cleriga-sagrado-conjuracao.png":"9e35cca722","assets/fx/cleriga-sagrado-escudo.png":"5391e067f6","assets/fx/cleriga-sagrado-impacto.png":"cf4e4ef6d4","assets/fx/cleriga-sagrado-raio.png":"6b0e74a1f2","assets/fx/fisico-impacto.png":"0cdec248bd","assets/fx/tank-martelo-impacto.png":"a7df8428c8","assets/fx/tank-onda-choque.png":"1ea0097e52","assets/fx/tank-protecao.png":"610ed49f4c","assets/fx/tank-provocacao.png":"3a6179e154","assets/fx/tank-defesa.png":"688c307083","assets/fx/guerreiro-corte-pesado.png":"5e295094af","assets/fx/guerreiro-corte.png":"c92b7d7927","assets/fx/guerreiro-passar.png":"c0d0464a4e","assets/fx/guerreiro-berserk-frente.png":"4b5c28290a","assets/fx/guerreiro-berserk-tras.png":"2e3d983e27","assets/fx/malgorath-cacos.png":"d8cc3a614d","assets/fx/malgorath-carga.png":"8b4557be5a","assets/fx/malgorath-corte.png":"4ca05dec6e","assets/fx/malgorath-erupcao.png":"a6ef5ef566","assets/fx/malgorath-explosao.png":"c231e99f1e","assets/fx/malgorath-fumaca.png":"9ea52cc4c6","assets/fx/malgorath-lanca.png":"e2ed12f47d","assets/fx/malgorath-onda-choque.png":"6d0b18b271","assets/fx/malgorath-orbe.png":"4a7774d762","assets/fx/malgorath-sigilo.png":"31dd61b29f","assets/bosses/lorde/anim/malgorath_idle.png":"76aadefa05","assets/bosses/lorde/anim/malgorath_slashH.png":"8dcdebac05","assets/bosses/lorde/anim/malgorath_slashV.png":"ecb4d164fa","assets/bosses/lorde/anim/malgorath_thrust.png":"af866b6924","assets/bosses/lorde/anim/malgorath_summon.png":"d92c2cced1","assets/bosses/lorde/anim/malgorath_aoe.png":"78c80110da","assets/bosses/lorde/anim/malgorath_enrage.png":"a6009ec11c","assets/bosses/lorde/anim/malgorath_phase2.png":"eaab28b5fd","assets/bosses/lorde/anim/malgorath_prep.png":"bcd07a9779","assets/bosses/lorde/anim/malgorath_laugh.png":"f31aed0d6a","assets/bosses/lorde/anim/malgorath_hurt.png":"00e6feb209","assets/bosses/lorde/anim/malgorath_hurtLight.png":"0db1e94f73","assets/bosses/lorde/anim/malgorath_die.png":"5eda7b2c21","assets/bosses/lorde/anim/malgorath_tpOut.png":"646a06ef6f","assets/bosses/lorde/anim/malgorath_tpIn.png":"8b09725965","assets/bosses/lorde/anim/malgorath_gagLook.png":"c63bfc18f2","assets/bosses/lorde/anim/malgorath_gagDismiss.png":"f19ea61583"};
 // Cache em duas partes (v339):
 //  CODIGO (paginas, scripts, estilos, dados): um cache por versao, baixado inteiro ao instalar; as paginas abrem dele na hora.
 //    A versao nova instala em segundo plano e vale a partir da proxima troca de tela (o botao ATUALIZAR da capa forca a troca).

diff --git a/js/pages/cover.js b/js/pages/cover.js
@@ -93,7 +93,7 @@ requestAnimationFrame(frame);
 document.addEventListener('visibilitychange', () => { if (document.hidden) run = false; else if (!run) { run = true; last = performance.now(); requestAnimationFrame(frame); } });
 
 // ---------- atualizar (versão do jogo) ----------
-{ const V='v354', b = $('#upd'); b.textContent = '↻ ATUALIZAR · ' + V;
+{ const V='v355', b = $('#upd'); b.textContent = '↻ ATUALIZAR · ' + V;
   // v339: pede ao service worker a versao nova e espera ela assumir (so baixa o que mudou; antes apagava tudo e baixava os 85 MB de novo)
   b.onclick = async () => { b.disabled = true; b.textContent = 'ATUALIZANDO…';
     try { const r = 'serviceWorker' in navigator ? await navigator.serviceWorker.getRegistration() : null;
